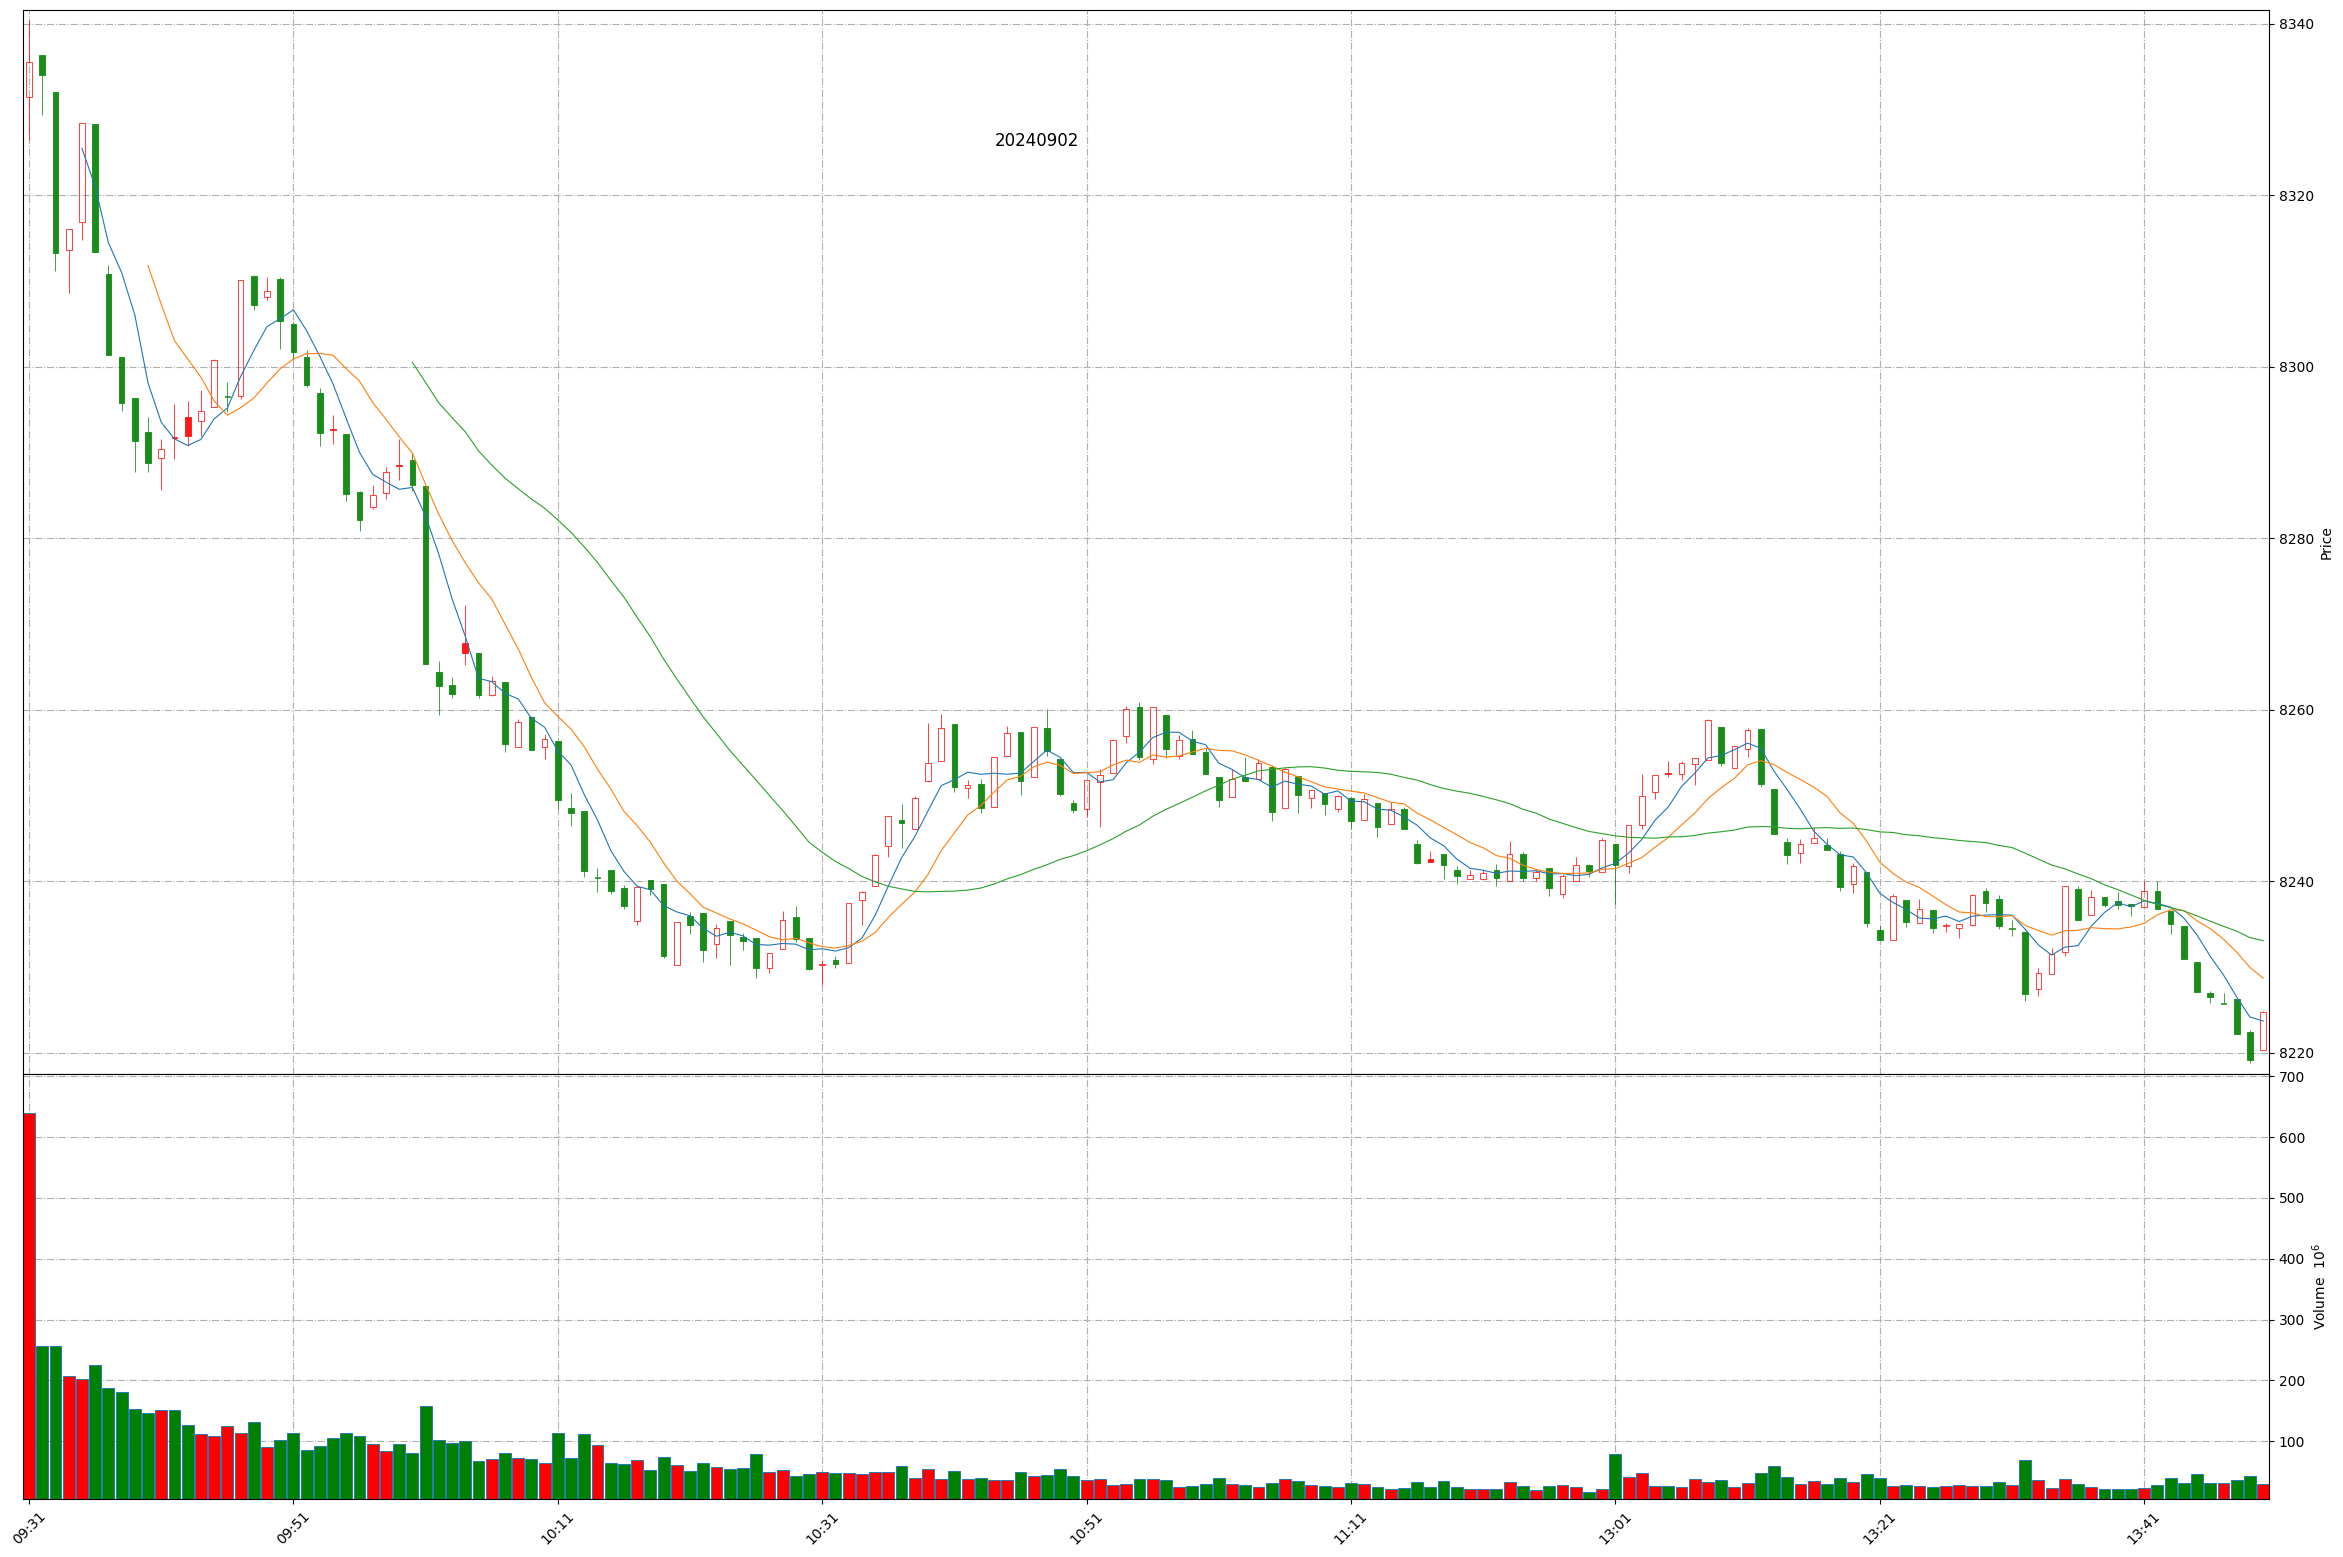
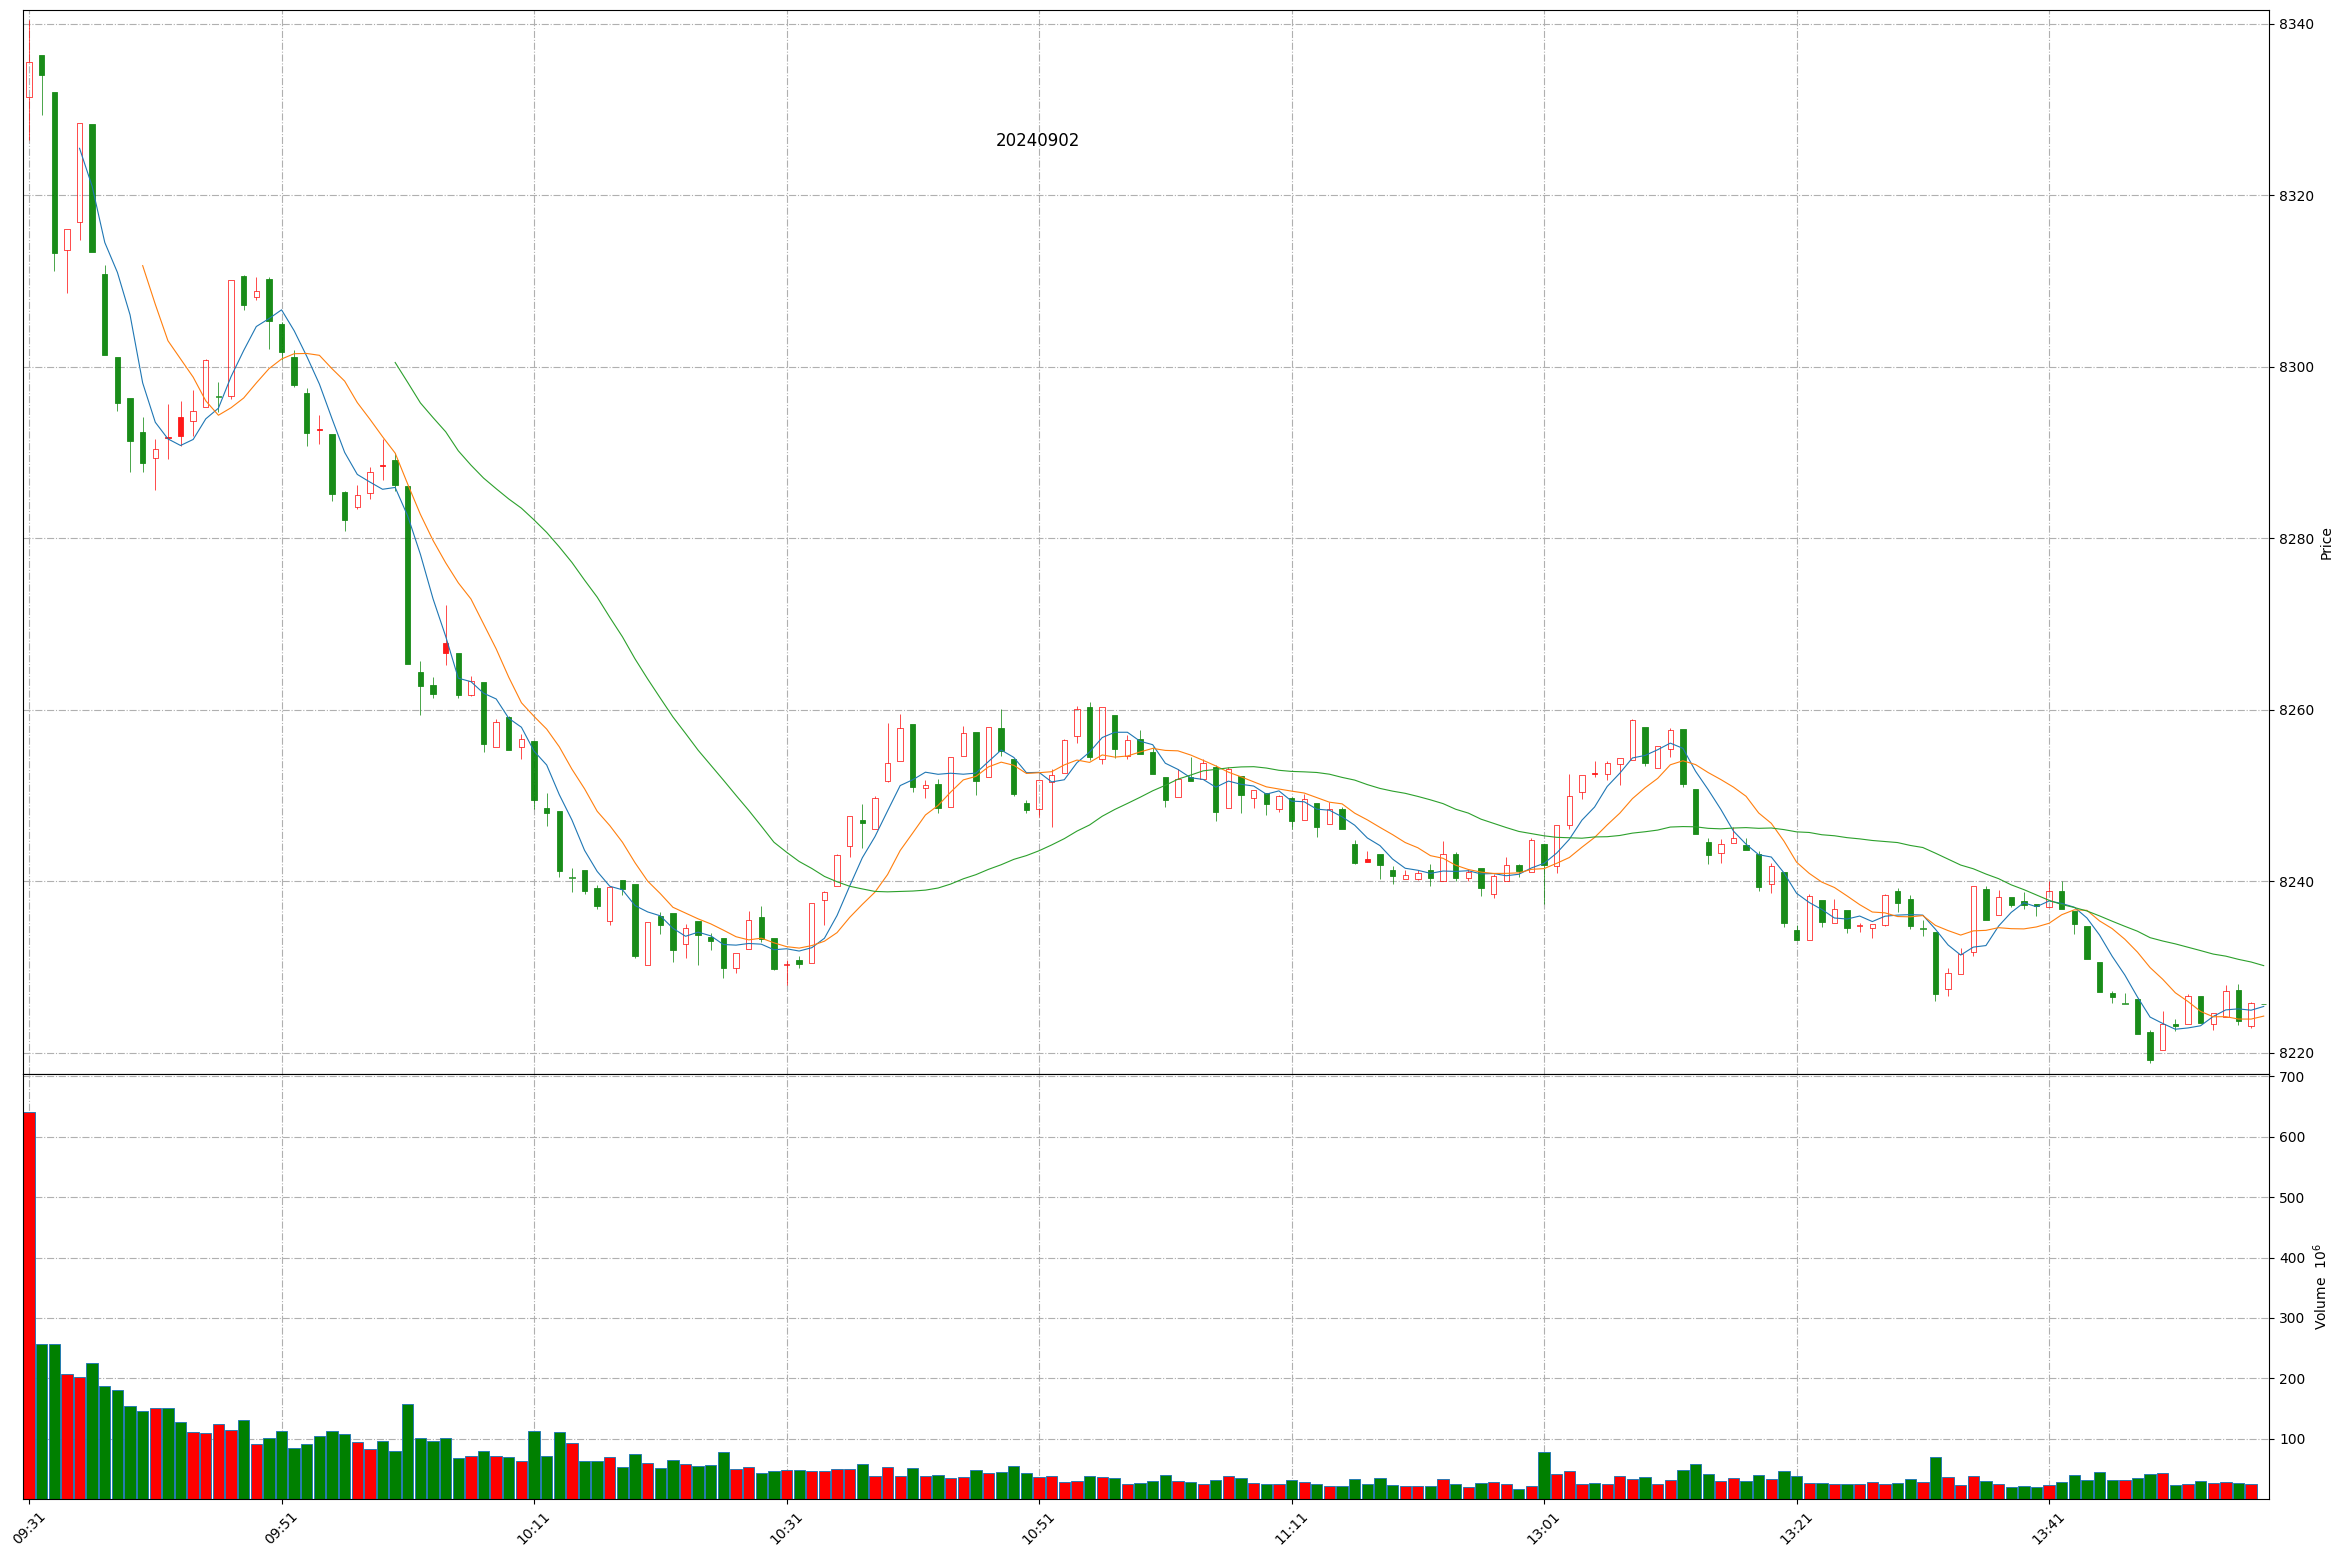
Github action update at 2024-09-02 13:57:10.

diff --git a/README.md b/README.md
@@ -1,11 +1,11 @@
 
 # Daily-A-share-market-quotes 每日 A 股指数（5min 更新）- 20240902
 
-### 上证指数 20240902 13:49
+### 上证指数 20240902 13:57
 ![](./fig/2024/9/20240902-sh000001.png)
 
-### 深证成指 20240902 13:49
+### 深证成指 20240902 13:57
 ![](./fig/2024/9/20240902-sz399001.png)
 
-### 北证50 20240902 13:49
+### 北证50 20240902 13:57
 ![](./fig/2024/9/20240902-bj899050.png)
